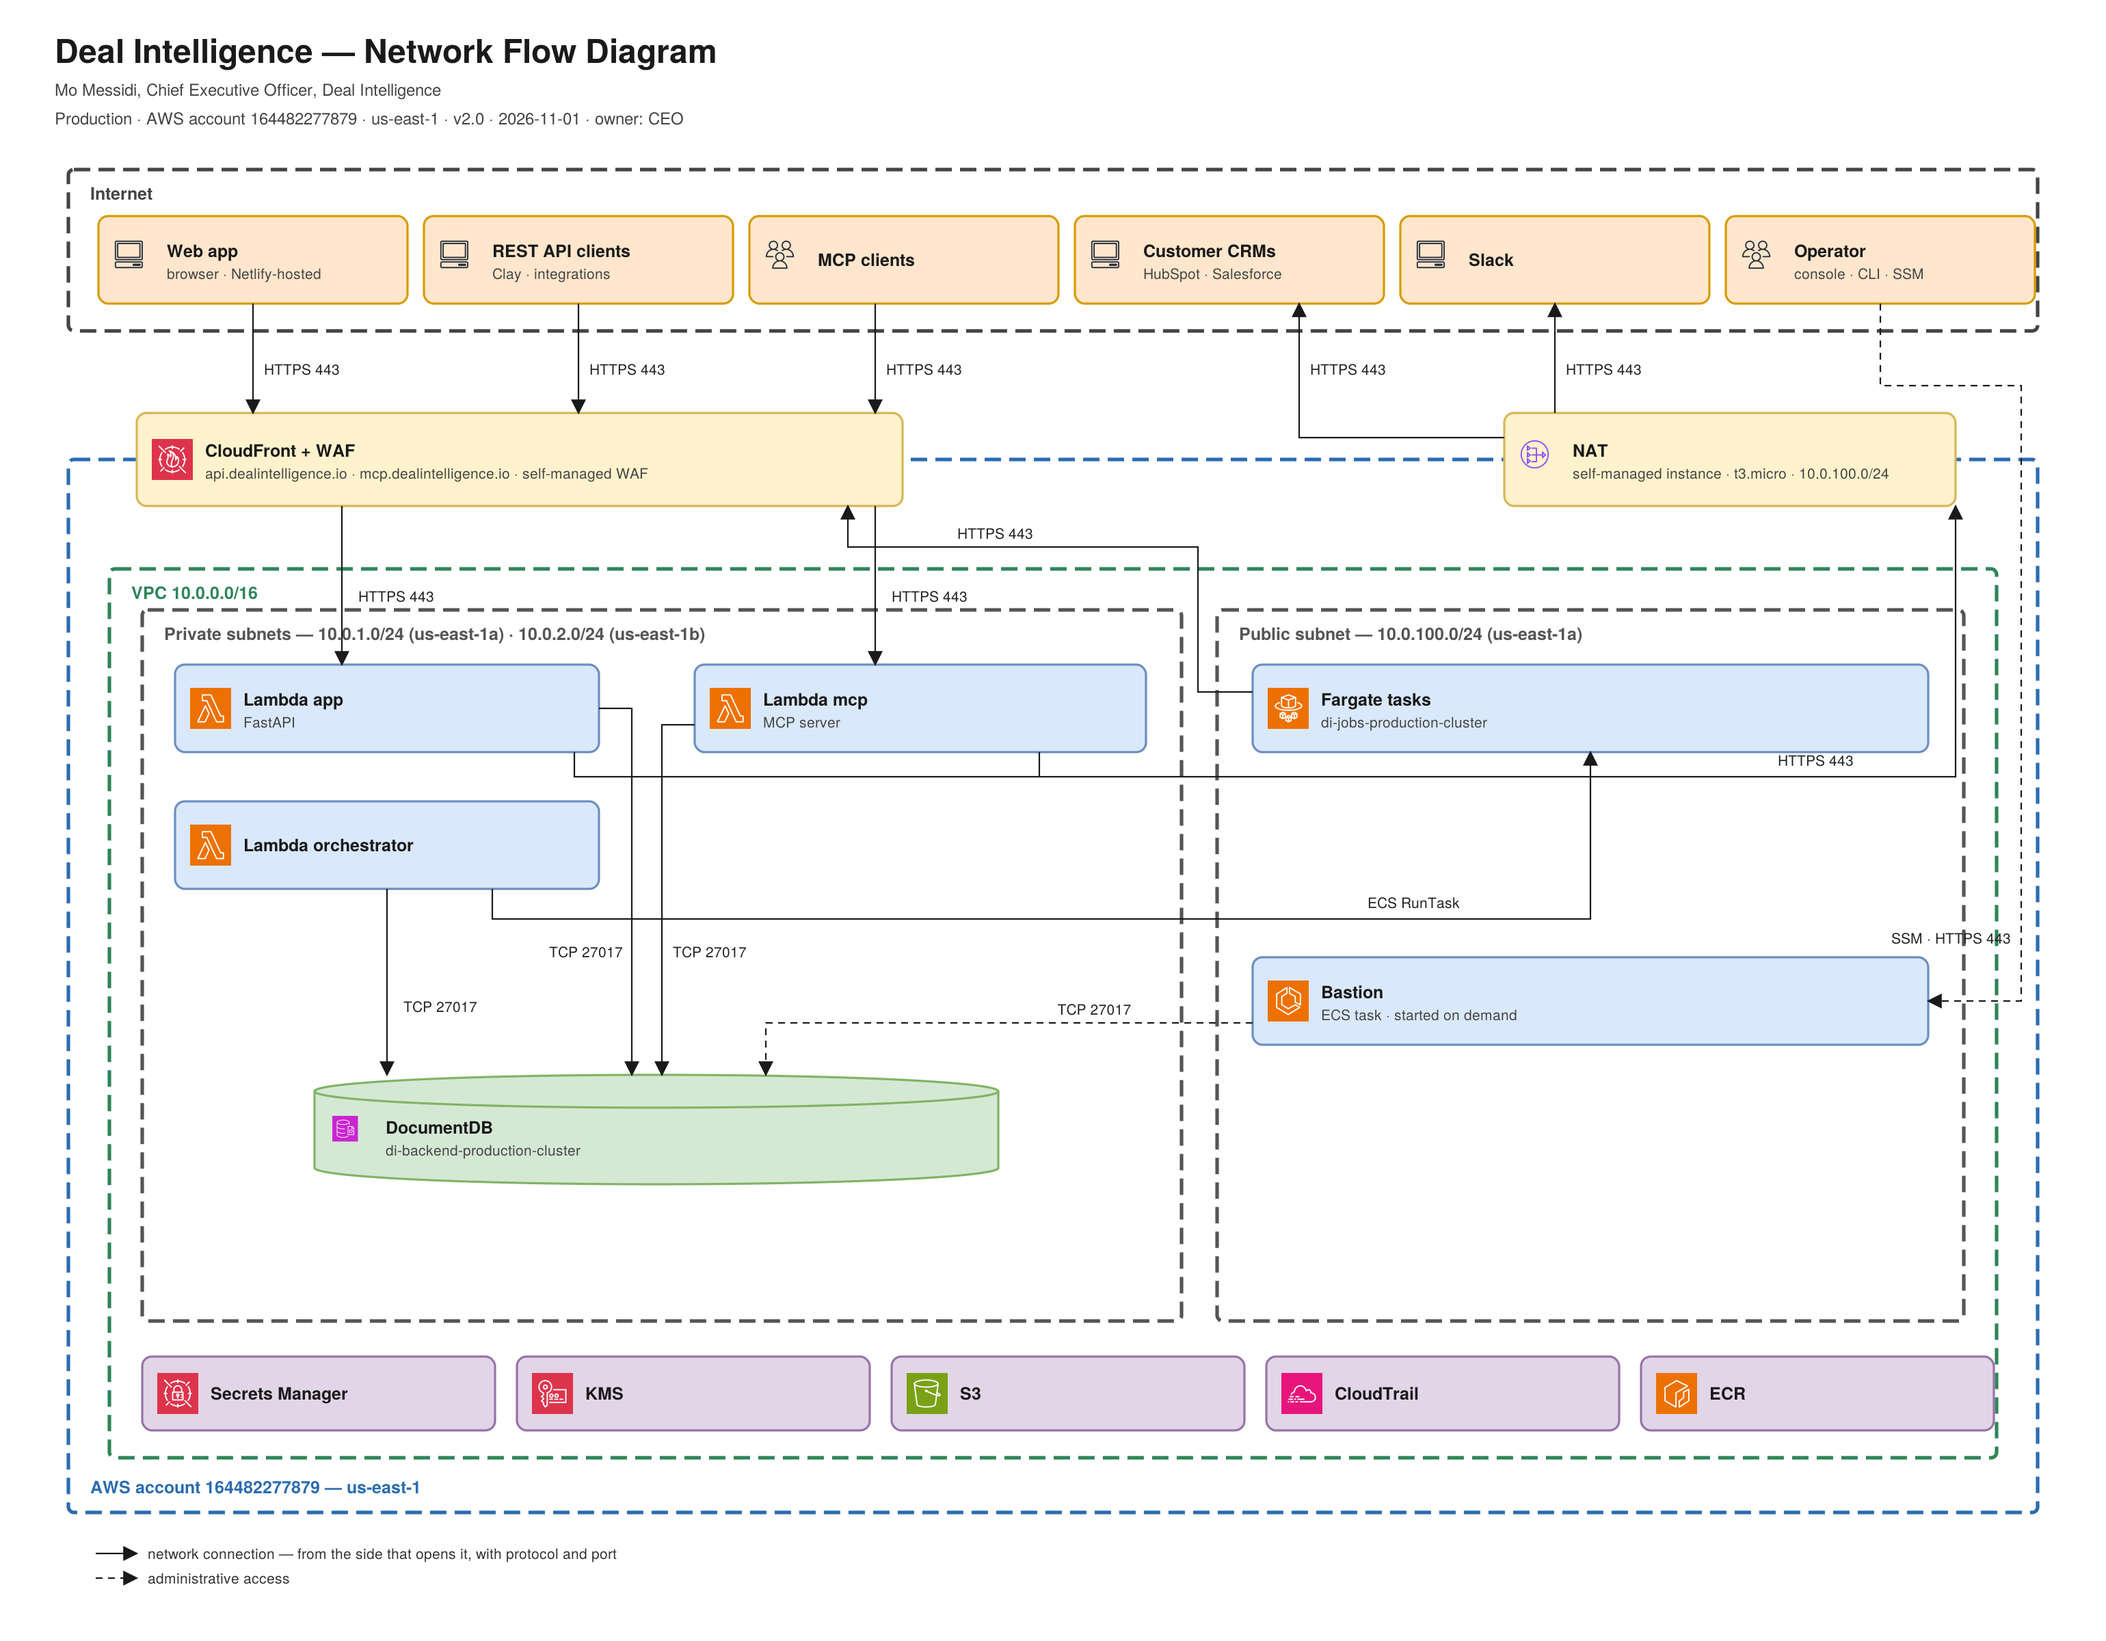
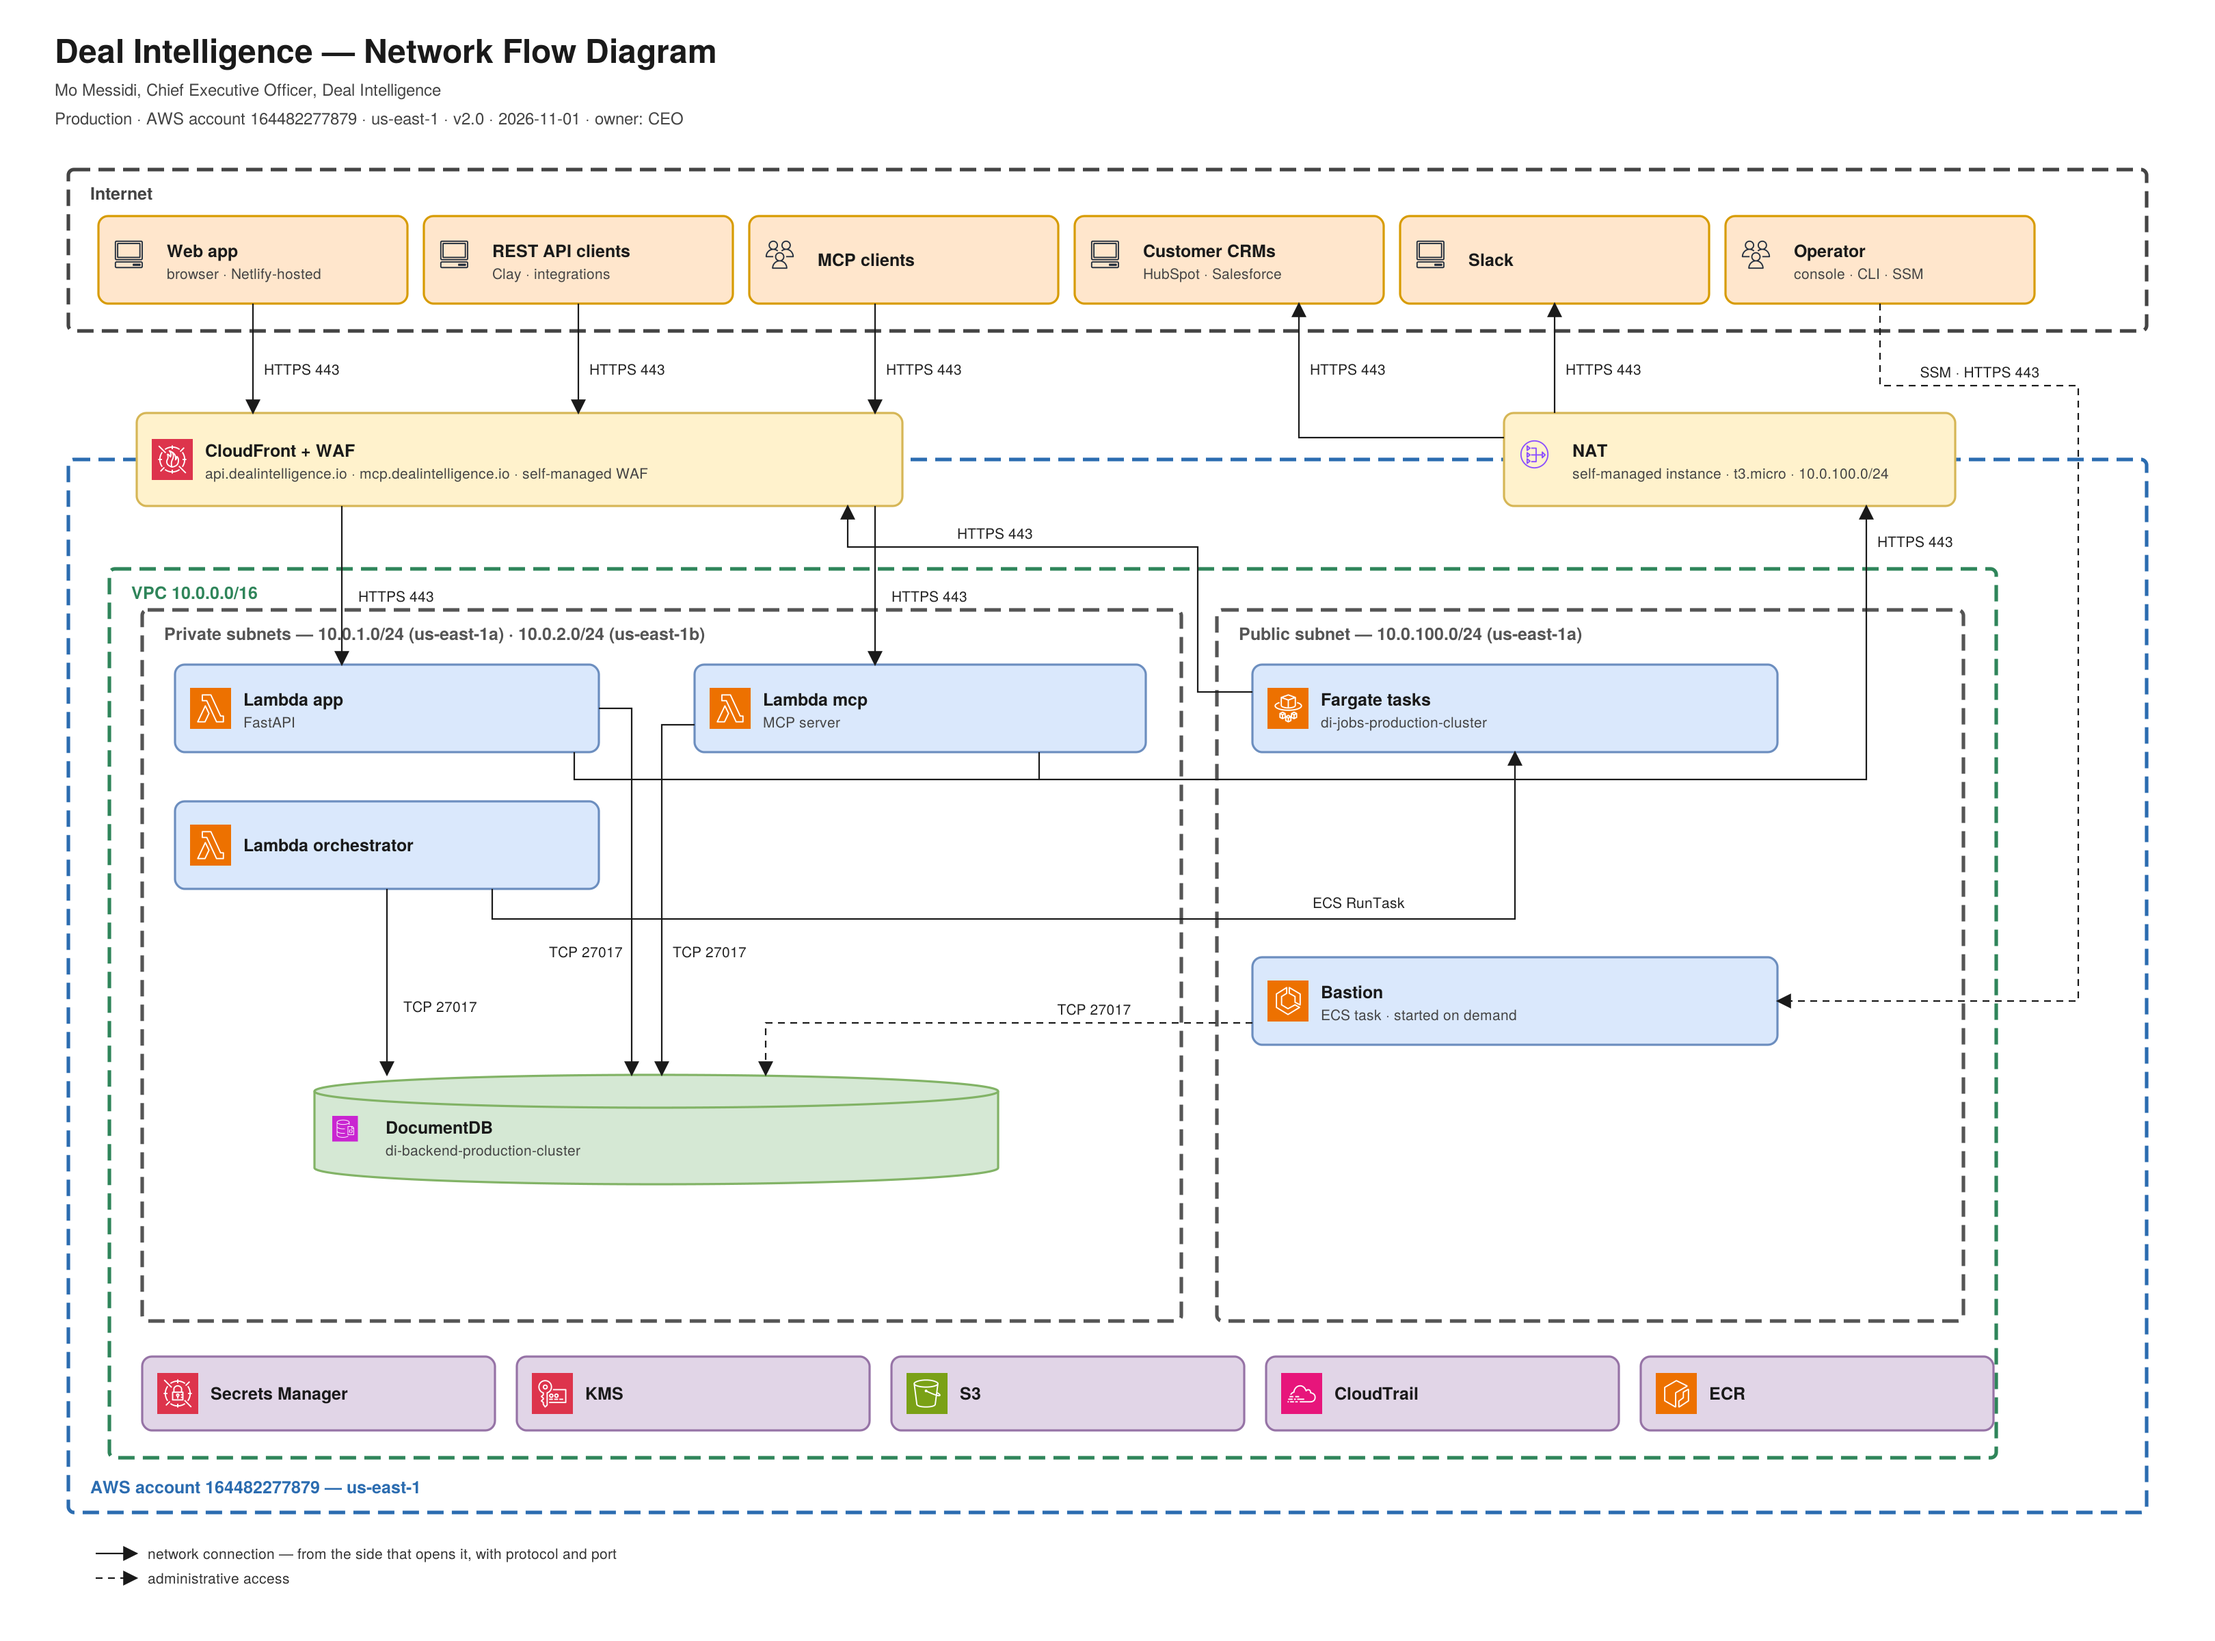
docs(di-migration): network diagram — wider right gutter, separate lanes for NAT egress and admin path
Claude-Session: https://claude.ai/code/session_01HHDhHvUwP2Tkd9fWDhAGHC

diff --git a/scripts/di-migration/evidence/network-diagram/make_network_diagram.py b/scripts/di-migration/evidence/network-diagram/make_network_diagram.py
@@ -114,11 +114,11 @@ def dashed(c, pts, label=None, lx=None, ly=None, anchor="middle"):
 
 
 def build_internal():
-    c = Canvas(1540, 1200)
+    c = Canvas(1620, 1200)
     c.header("Deal Intelligence — Network Flow Diagram",
              f"Production · AWS account 164482277879 · us-east-1 · v2.0 · {DATE} · owner: CEO")
 
-    c.boundary(50, 124, 1440, 118, "Internet")
+    c.boundary(50, 124, 1520, 118, "Internet")
     ey, eh, ew, gap = 158, 64, 226, 12
     xs = [72 + i * (ew + gap) for i in range(6)]
     c.node(xs[0], ey, ew, eh, "Web app", "browser · Netlify-hosted", EXT, "Client")
@@ -129,7 +129,7 @@ def build_internal():
     c.node(xs[5], ey, ew, eh, "Operator", "console · CLI · SSM", EXT, "Users")
 
     A = 336
-    c.p.append(f'<rect x="50" y="{A}" width="1440" height="770" rx="4" ry="4" fill="none" stroke="#2b6cb0" '
+    c.p.append(f'<rect x="50" y="{A}" width="1520" height="770" rx="4" ry="4" fill="none" stroke="#2b6cb0" '
                'stroke-width="2.6" stroke-dasharray="12 6"/>')
     c.text(66, A + 756, "AWS account 164482277879 — us-east-1", 12.5, "start", "bold", "#2b6cb0")
 
@@ -144,8 +144,8 @@ def build_internal():
     c.cyl(230, 786, 500, 80, "DocumentDB", "di-backend-production-cluster", "AmazonDocumentDB")
 
     c.boundary(890, 446, 546, 520, "Public subnet — 10.0.100.0/24 (us-east-1a)", "#555")
-    c.node(916, 486, 494, 64, "Fargate tasks", "di-jobs-production-cluster", INT, "AWSFargate")
-    c.node(916, 700, 494, 64, "Bastion", "ECS task · started on demand", INT, "AmazonElasticContainerService")
+    c.node(916, 486, 384, 64, "Fargate tasks", "di-jobs-production-cluster", INT, "AWSFargate")
+    c.node(916, 700, 384, 64, "Bastion", "ECS task · started on demand", INT, "AmazonElasticContainerService")
 
     sw = 258
     for i, (ic, t) in enumerate([("AWSSecretsManager", "Secrets Manager"), ("AWSKeyManagementService", "KMS"),
@@ -164,16 +164,16 @@ def build_internal():
     c.arrow([(508, 530), (484, 530), (484, 786)], "TCP 27017", 492, 700, "start")
     c.arrow([(283, 650), (283, 786)], "TCP 27017", 295, 740, "start")
     # orchestrator -> Fargate
-    c.arrow([(360, 650), (360, 672), (1163, 672), (1163, 550)], "ECS RunTask", 1000, 664, "start")
+    c.arrow([(360, 650), (360, 672), (1108, 672), (1108, 550)], "ECS RunTask", 960, 664, "start")
     # Lambda app + mcp out through the NAT (shared trunk)
-    c.arrow([(420, 550), (420, 568), (1430, 568), (1430, A + 34)], "HTTPS 443", 1300, 560, "start")
-    c.p.append('<path d="M760,550 L760,568" fill="none" stroke="#1a1a1a" stroke-width="1.1"/>')
+    c.arrow([(420, 550), (420, 570), (1365, 570), (1365, A + 34)], "HTTPS 443", 1373, 400, "start")
+    c.p.append('<path d="M760,550 L760,570" fill="none" stroke="#1a1a1a" stroke-width="1.1"/>')
     c.arrow([(1100, A - 16), (950, A - 16), (950, ey + eh)], "HTTPS 443", 958, 274, "start")
     c.arrow([(1137, A - 34), (1137, ey + eh)], "HTTPS 443", 1145, 274, "start")
     # Fargate: API calls back in through CloudFront
     c.arrow([(916, 506), (876, 506), (876, 400), (620, 400), (620, A + 34)], "HTTPS 443", 700, 394, "start")
     # administrative access
-    dashed(c, [(xs[5] + 113, ey + eh), (xs[5] + 113, 282), (1478, 282), (1478, 732), (1410, 732)], "SSM · HTTPS 443", 1470, 690, "end")
+    dashed(c, [(xs[5] + 113, ey + eh), (xs[5] + 113, 282), (1520, 282), (1520, 732), (1300, 732)], "SSM · HTTPS 443", 1448, 276, "middle")
     dashed(c, [(916, 748), (560, 748), (560, 786)], "TCP 27017", 800, 742, "middle")
 
     legend(c, 70, 1140)
